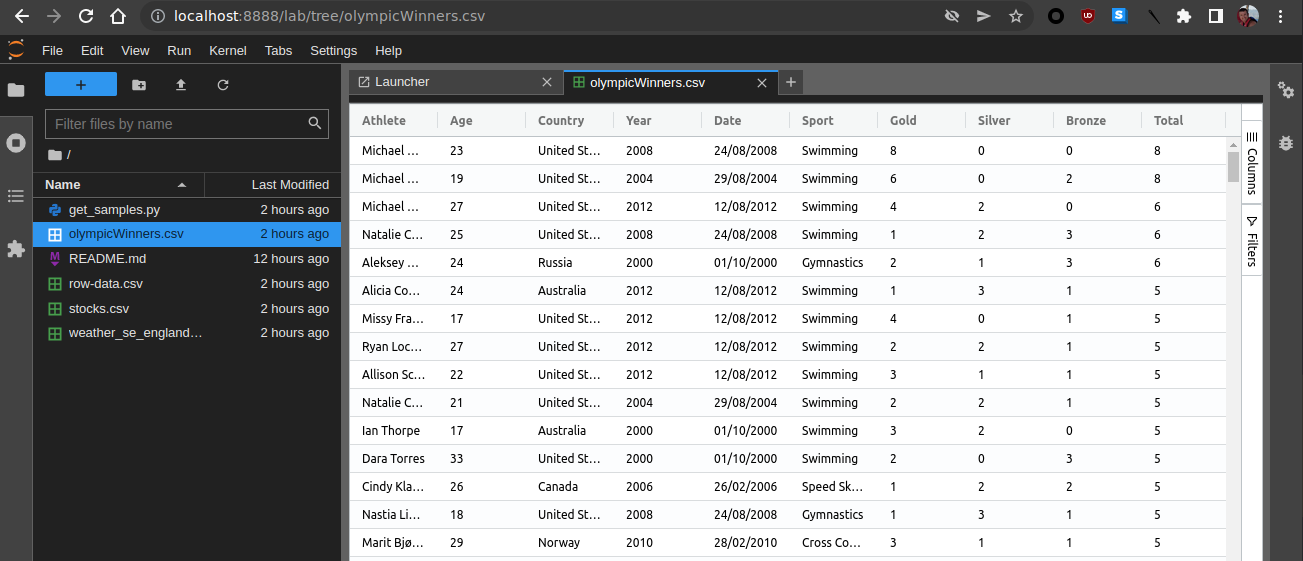
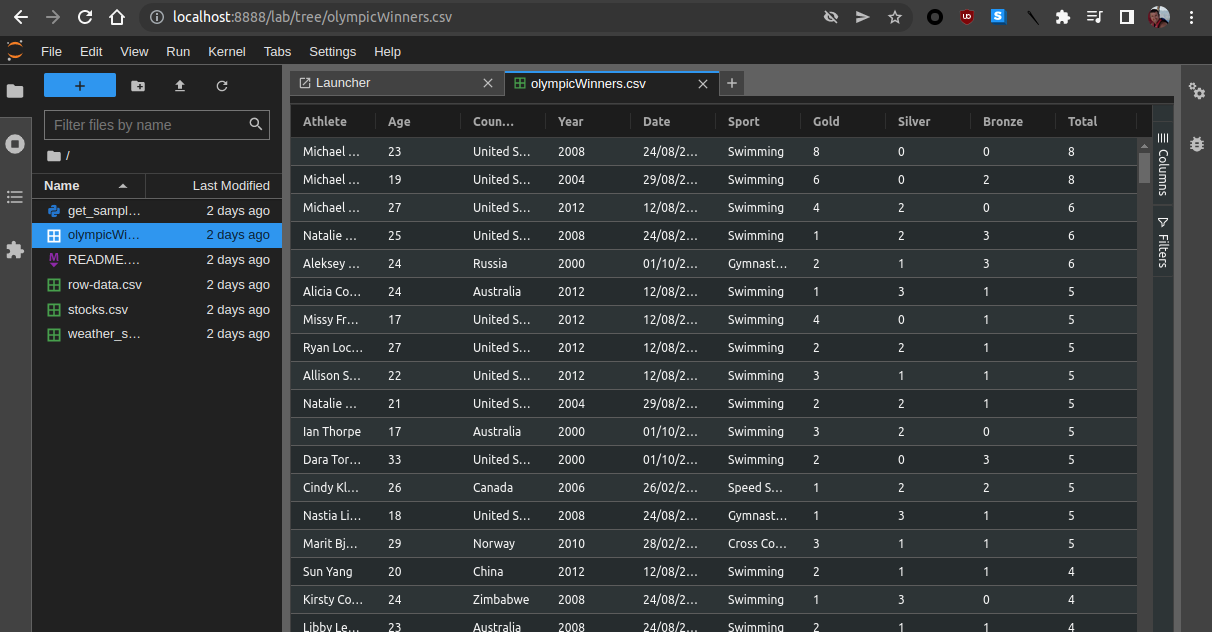
Add dark theme

diff --git a/src/index.ts b/src/index.ts
@@ -31,6 +31,7 @@ import { StatusBarModule } from '@ag-grid-enterprise/status-bar';
 
 import '@ag-grid-community/core/dist/styles/ag-grid.css';
 import '@ag-grid-community/core/dist/styles/ag-theme-balham.css';
+import '@ag-grid-community/core/dist/styles/ag-theme-balham-dark.css';
 
 ModuleRegistry.registerModules([
   ClientSideRowModelModule,
@@ -112,8 +113,8 @@ export class AggridWidget extends Widget implements IRenderMime.IRenderer {
 
     this._vizGrid = root.append('div');
     this._vizGrid.attr('id', 'viz');
-    this._vizGrid.attr('class', 'ag-theme-balham');
-    // this._vizGrid.attr('class', 'ag-theme-balham-dark');
+    // this._vizGrid.attr('class', 'ag-theme-balham');
+    this._vizGrid.attr('class', 'ag-theme-balham-dark');
 
     const _data_json = d3Parser.csvParse(data, d3Parser.autoType);
     console.log(_data_json);
@@ -206,7 +207,7 @@ export const rendererFactory: IRenderMime.IRendererFactory = {
 const extension: IRenderMime.IExtension = {
   id: 'jupyterlab-aggrid:plugin',
   rendererFactory,
-  rank: 10,
+  rank: 1,
   dataType: 'string',
   fileTypes: [
     {
